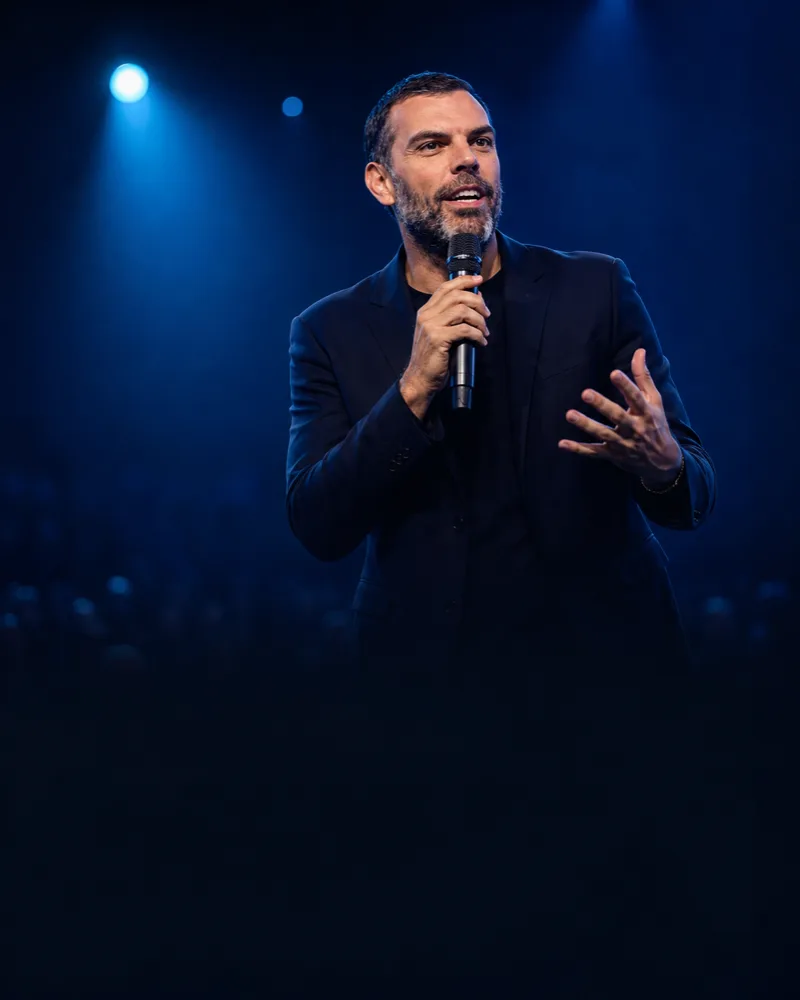
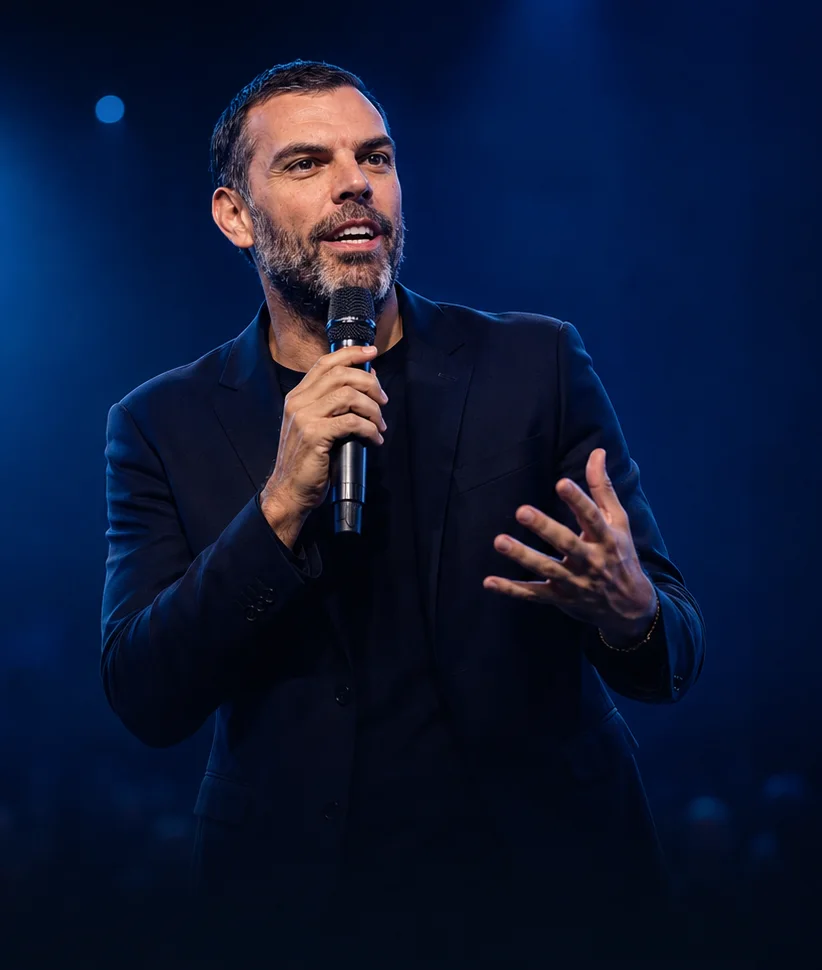
E-mail e WhatsApp de gestor falam com o gestor
O Bruno pegou o erro de posicionamento: as pecas de gestao pediam pra ele
repassar a ferramenta ao time ("de graca, pro seu time inteiro usar", "manda
pro seu time", "seu vendedor descreve a dor"). So que o vendedor JA recebe a
peca dele, segmentada. Entao a peca do gestor nao entregava nada pra ele e
morria.

A dor do gestor e outra, e agora e dela que as duas pecas falam: descobrir
qual etapa esta furando, treino que nao pega e o time volta ao antigo em duas
semanas, reuniao de segunda que vira reuniao de desculpa, cobrar sem virar o
chato da sala. O plano que ele recebe e de gestao: a rotina, o que cobrar e o
que olhar na proxima reuniao. Abre com "meta nao se bate no grito, se bate no
funil", que e o pilar dele para esse publico, em vez de "venda nao e dom, e
metodo", que serve melhor ao vendedor.

Virou a quarta regra do documento, para nenhuma peca futura repetir.

HERO DA LP, duas correcoes:

O numero saiu do hero. "Cerca de 500 videos" envelhece: hoje sao 501, daqui a
uns meses 600, e o texto fica desatualizado sozinho numa superficie
permanente. Trocado por "varre o canal inteiro", que nao envelhece.

A foto ficou profissional. A primeira versao tinha ele pequeno e distante, com
metade da faixa vazia. Recortei a original em 300,40 - 1122,1010 pra ele
ocupar o quadro, e a foto passou de 46% para 54% da largura, colada na borda,
altura cheia da faixa (que ganhou min-h de 660). O degrade encolheu de 68%
para 42%, entao ele aparece inteiro em vez de meio dissolvido.
[…]

diff --git a/src/pages/landing.tsx b/src/pages/landing.tsx
@@ -50,20 +50,21 @@ export function LandingPage() {
         temas de propósito: é a "foto de palco" da LP, o ponto onde a marca se
         apresenta. O ritmo vertical vem da alternância com as bandas claras.
       */}
-      <section className="banda-navy relative overflow-hidden border-b border-white/10">
-        <div className="mx-auto w-full max-w-[1180px] px-5 py-14 sm:px-8 sm:py-20 lg:py-28">
-          {/* No desktop o texto cede a direita para a foto; no mobile ocupa tudo
-              e a foto vira faixa embaixo. */}
-          <div className="max-w-3xl lg:max-w-[620px]">
+      <section className="banda-navy relative overflow-hidden border-b border-white/10 lg:min-h-[660px]">
+        <div className="mx-auto grid w-full max-w-[1180px] items-center gap-10 px-5 py-14 sm:px-8 sm:py-20 lg:min-h-[660px] lg:grid-cols-[minmax(0,540px)_minmax(0,1fr)] lg:gap-12 lg:py-24">
+          {/* No desktop texto e foto dividem a mesma coluna de 1180: o texto na
+              esquerda, a foto na direita, dentro da grade. No mobile empilha e a
+              foto vira faixa embaixo. */}
+          <div className="max-w-3xl lg:max-w-[540px]">
             <span className="eyebrow mb-6">Acervo do canal do Thiago Concer</span>
             <h1 className="text-[clamp(32px,4.6vw,58px)] font-semibold text-white">
               Descreva sua dor de vendas e receba o vídeo e o{' '}
               <span className="text-primary">minuto exato</span> onde Thiago Concer resolve.
             </h1>
             <p className="mt-6 max-w-2xl text-lg text-[#C6D2E6]">
-              São cerca de 500 vídeos sobre vendas no canal. O ConcerFinder acha o trecho que
-              responde ao seu problema, abre o vídeo naquele minuto e monta um plano de ação para
-              você aplicar esta semana.
+              O ConcerFinder varre o canal inteiro, acha o trecho que responde ao seu problema,
+              abre o vídeo naquele minuto e monta um plano de ação para você aplicar esta
+              semana.
             </p>
             <div className="mt-8 flex flex-wrap items-center gap-3">
               <Button asChild size="lg">
@@ -87,33 +88,36 @@ export function LandingPage() {
               Cadastro gratuito. Libera a busca na hora.
             </p>
           </div>
-        </div>
 
-        {/*
-          Uma imagem só, dois lugares.
-          No mobile ela fica no fluxo, logo abaixo do texto, como fecho da
-          faixa. No desktop passa a absoluta na direita, colada na borda. O
-          olhar dele aponta para a esquerda, então puxa a leitura de volta para
-          o título em vez de jogar para fora da tela.
+          {/*
+            Uma imagem só, dois lugares.
+            No mobile ela fica no fluxo, logo abaixo do texto, como fecho da
+            faixa. No desktop ocupa a coluna da direita da grade, alinhada com o
+            texto e sem sangrar até a borda da tela: assim ela fica dentro do
+            bloco de conteúdo em vez de fugir para o canto. O olhar dele aponta
+            para a esquerda, então puxa a leitura de volta para o título.
 
-          O degradê existe porque o fundo da foto é navy, mas não exatamente o
-          #0A1628 da faixa: sem ele a emenda aparece como um retângulo.
-        */}
-        <div
-          className="relative h-[340px] w-full sm:h-[400px] lg:absolute lg:inset-y-0 lg:right-0 lg:h-full lg:w-[46%] lg:max-w-[560px]"
-          aria-hidden="true"
-        >
-          <picture>
-            <source media="(min-width: 1024px)" srcSet="/thiago-concer-palco.webp" />
-            <img
-              src="/thiago-concer-palco-mobile.webp"
-              alt=""
-              className="size-full object-cover object-[60%_6%] lg:object-[center_top]"
-            />
-          </picture>
-          {/* Mobile: desmancha em cima e embaixo. Desktop: desmancha à esquerda,
-              onde encosta no texto. */}
-          <div className="absolute inset-0 bg-[linear-gradient(to_bottom,#0A1628_0%,rgba(10,22,40,0)_22%,rgba(10,22,40,0)_58%,#0A1628_100%)] lg:bg-[linear-gradient(to_right,#0A1628_0%,rgba(10,22,40,0.55)_30%,rgba(10,22,40,0)_68%)]" />
+            Os degradês existem porque o fundo da foto é navy, mas não exatamente
+            o #0A1628 da faixa: sem eles a emenda aparece como um retângulo.
+          */}
+          <div
+            className="relative mx-auto h-[340px] w-full max-w-[440px] sm:h-[400px] lg:h-[560px] lg:max-w-[480px]"
+            aria-hidden="true"
+          >
+            <picture>
+              <source media="(min-width: 1024px)" srcSet="/thiago-concer-palco.webp" />
+              <img
+                src="/thiago-concer-palco-mobile.webp"
+                alt=""
+                className="size-full object-cover object-[60%_6%] lg:object-[50%_top]"
+              />
+            </picture>
+            {/* Mobile: desmancha em cima e embaixo. Desktop: desmancha no pé,
+                onde o corte no tronco apareceria. */}
+            <div className="absolute inset-0 bg-[linear-gradient(to_bottom,#0A1628_0%,rgba(10,22,40,0)_22%,rgba(10,22,40,0)_58%,#0A1628_100%)] lg:bg-[linear-gradient(to_bottom,rgba(10,22,40,0)_52%,rgba(10,22,40,0.82)_86%,#0A1628_100%)]" />
+            {/* Desktop: vinheta que dissolve as laterais e o topo na faixa. */}
+            <div className="absolute inset-0 hidden lg:block lg:bg-[radial-gradient(74%_66%_at_50%_36%,rgba(10,22,40,0)_60%,#0A1628_100%)]" />
+          </div>
         </div>
       </section>
 

diff --git a/docs/DIVULGACAO.md b/docs/DIVULGACAO.md
@@ -16,11 +16,13 @@ Antes da copy, o argumento. Toda peça deste lançamento conta a mesma história
 
 **A virada.** O ConcerFinder é o índice do canal. A pessoa descreve a dor do jeito que falaria com um colega, e a ferramenta aponta em quais vídeos Thiago Concer trata daquilo e em qual minuto. Ela clica, o vídeo abre naquele ponto e ela assiste. Junto vem um plano de ação para a semana, diferente para vendedor, gestor e dono, dizendo o que fazer com o que acabou de ver.
 
-**Três regras de posicionamento, e as três são inegociáveis.**
+**Quatro regras de posicionamento, e as quatro são inegociáveis.**
 
 **Primeira: o ConcerFinder não substitui assistir, ele leva a pessoa a assistir.** O vídeo é o produto; a ferramenta é a porta de entrada. Quem usa assiste mais, e assiste o que interessa. Nenhuma peça pode sugerir que dá para pular o conteúdo, que assistir é perda de tempo ou que o canal é difícil demais. O trecho toca no próprio player do YouTube, então a visualização é do canal.
 
 **Segunda: Thiago Concer sabe o que gravou.** Nenhuma peça pode dizer que ele não acha, não lembra ou não sabe de cabeça o próprio conteúdo. Isso invalida o motivo de ele gravar e derruba a autoridade dele. E não é preciso explicar por que a ferramenta existe do ponto de vista dele: a peça fala do problema de quem lê, não da agenda de quem gravou. Nada de "eu sou um só" ou "não consigo responder todo mundo".
+
+**Quarta: peça de gestor fala com o gestor, não pede para ele repassar.** O vendedor já recebe a peça dele. Se a peça de gestão virar "manda pro seu time usar", o gestor não encontra nada ali para ele e a mensagem morre. A dor dele é outra: descobrir onde a venda morre, treino que não pega, reunião de segunda que vira reunião de desculpa, cobrar sem virar o chato da sala. É dessa dor que a peça fala.
 
 **Terceira: 20 anos e cerca de 500 vídeos nunca aparecem na mesma peça.** Sozinho, cada um é forte: 20 anos é autoridade, 500 vídeos é o tamanho do acervo que justifica precisar de ajuda para navegar. Juntos, o leitor divide e chega em 25 vídeos por ano, o que enfraquece os dois. Escolha um por peça, conforme o argumento daquela peça.
 
@@ -82,15 +84,17 @@ https://finder.thiagoconcer.com.br/?utm_source=whatsapp&utm_medium=grupos&utm_ca
 ### Versão B, grupos de gestores e donos
 
 ```
-Uma coisa que eu repito desde que comecei: venda não é dom, é método.
+Uma coisa que eu repito desde que comecei: meta não se bate no grito, se bate no funil.
 
-Esse método tá todo gravado no meu canal, de graça, em cerca de *500 vídeos*. E agora o teu time consegue chegar no pedaço certo na hora em que precisa.
+Só que no meio do mês ninguém para pra diagnosticar. Cobra-se mais, o time corre mais, e continua sem saber qual etapa tá furando.
 
-Lançamos o *ConcerFinder*: seu vendedor descreve a dor em uma frase ("o cliente sumiu depois da proposta", "não sei contornar preço") e recebe o vídeo certo, no *minuto exato* em que eu trato aquilo, mais um *plano de ação* pra semana, diferente pra quem vende e pra quem gerencia.
+Lançamos o *ConcerFinder* pra isso.
 
-De graça, pro seu time inteiro usar.
+Você escreve a tua dor de gestão do jeito que falaria com outro gestor, tipo "meu time não faz follow-up e eu só descubro no fim do mês", e ele te mostra em quais dos meus vídeos eu trato disso, no *minuto exato*, com um *plano de ação de gestão* pra semana: a rotina, o que cobrar e o que olhar na reunião de segunda.
 
-Manda pro seu time, e testa você primeiro com a dor que mais te tira sono:
+São cerca de *500 vídeos* de vendas no canal, de graça.
+
+Escreve a dor que o teu time repete há três meses e vê o que volta:
 https://finder.thiagoconcer.com.br/?utm_source=whatsapp&utm_medium=grupos&utm_campaign=lancamento-concerfinder
 ```
 
@@ -160,31 +164,33 @@ Thiago Concer
 
 ### 5.2 Versão gestor e dono
 
-**Assunto (testar A/B):**
-- A: `O que o seu time faz quando trava?`
-- B: `Método na mão do time, na hora certa`
+Fala com a dor **de gestão**, não pede para repassar ao time. O vendedor já recebe a peça dele; se esta virar "manda pro seu time usar", o gestor não encontra nada aqui para ele.
 
-**Preheader:** `Seu vendedor descreve a dor e recebe o vídeo, o minuto e o que fazer.`
+**Assunto (testar A/B):**
+- A: `O que você faz quando o time não bate?`
+- B: `Diagnóstico de meta, não bronca`
+
+**Preheader:** `Descreve a dor da sua gestão e recebe o vídeo, o minuto e a rotina da semana.`
 
 ```
-%FIRSTNAME%, uma coisa que eu repito desde que comecei: venda não é dom, é método.
+%FIRSTNAME%, uma coisa que eu repito desde que comecei: meta não se bate no grito, se bate no funil.
 
-E método só vira resultado quando chega na mão do vendedor na hora em que ele precisa. Não no treinamento do trimestre passado, não no fim de semana. Antes da próxima ligação.
+Só que quando o mês aperta, ninguém para pra diagnosticar. Cobra-se mais, o time corre mais, e continua sem saber qual etapa tá furando.
 
-Esse método tá todo gravado no meu canal, de graça, em cerca de 500 vídeos. O que faltava era o seu time conseguir chegar no pedaço certo, na hora.
+Eu já tratei isso no meu canal. Como achar onde a venda morre, como montar a reunião de segunda, como treinar o vendedor com o erro dele e não com tema genérico, como cobrar sem virar o chato da sala. Tá tudo lá, de graça, em cerca de 500 vídeos.
 
-É pra isso que serve o ConcerFinder.
+O ConcerFinder te leva direto ao pedaço que resolve o seu caso.
 
-O vendedor descreve a dor em uma frase, "o cliente sumiu depois da proposta", "não sei contornar preço", e recebe os vídeos em que eu trato daquilo, já no minuto exato, mais um plano de ação pra semana. Se quem pergunta gerencia time, o plano vem de gestão: rotina, cobrança e o que olhar na reunião de segunda.
+Você escreve a sua dor de gestão do jeito que falaria com outro gestor. "Meu time não faz follow-up e eu só descubro no fim do mês." "Treinei fechamento e em duas semanas voltaram ao que faziam antes." Ele acha os vídeos em que eu trato daquilo, abre no minuto certo e monta um plano de ação de gestão pra tua semana: a rotina, o que cobrar e o que olhar na próxima reunião.
 
-É grátis, pro seu time inteiro usar. Do cadastro à primeira resposta são 2 minutos.
+É grátis. Do cadastro à primeira resposta são 2 minutos.
 
-Testa você primeiro, com a dor que o seu time repete há três meses:
+Escreve a dor que o teu time repete há três meses:
 
-[BOTÃO] Descrever a dor do meu time
+[BOTÃO] Descrever a dor da minha gestão
 https://finder.thiagoconcer.com.br/?utm_source=email&utm_medium=broadcast&utm_campaign=lancamento-concerfinder&utm_content=gestor
 
-Depois manda pro time.
+Me conta se o plano bateu com o diagnóstico que você já tinha.
 
 Thiago Concer
 ```
